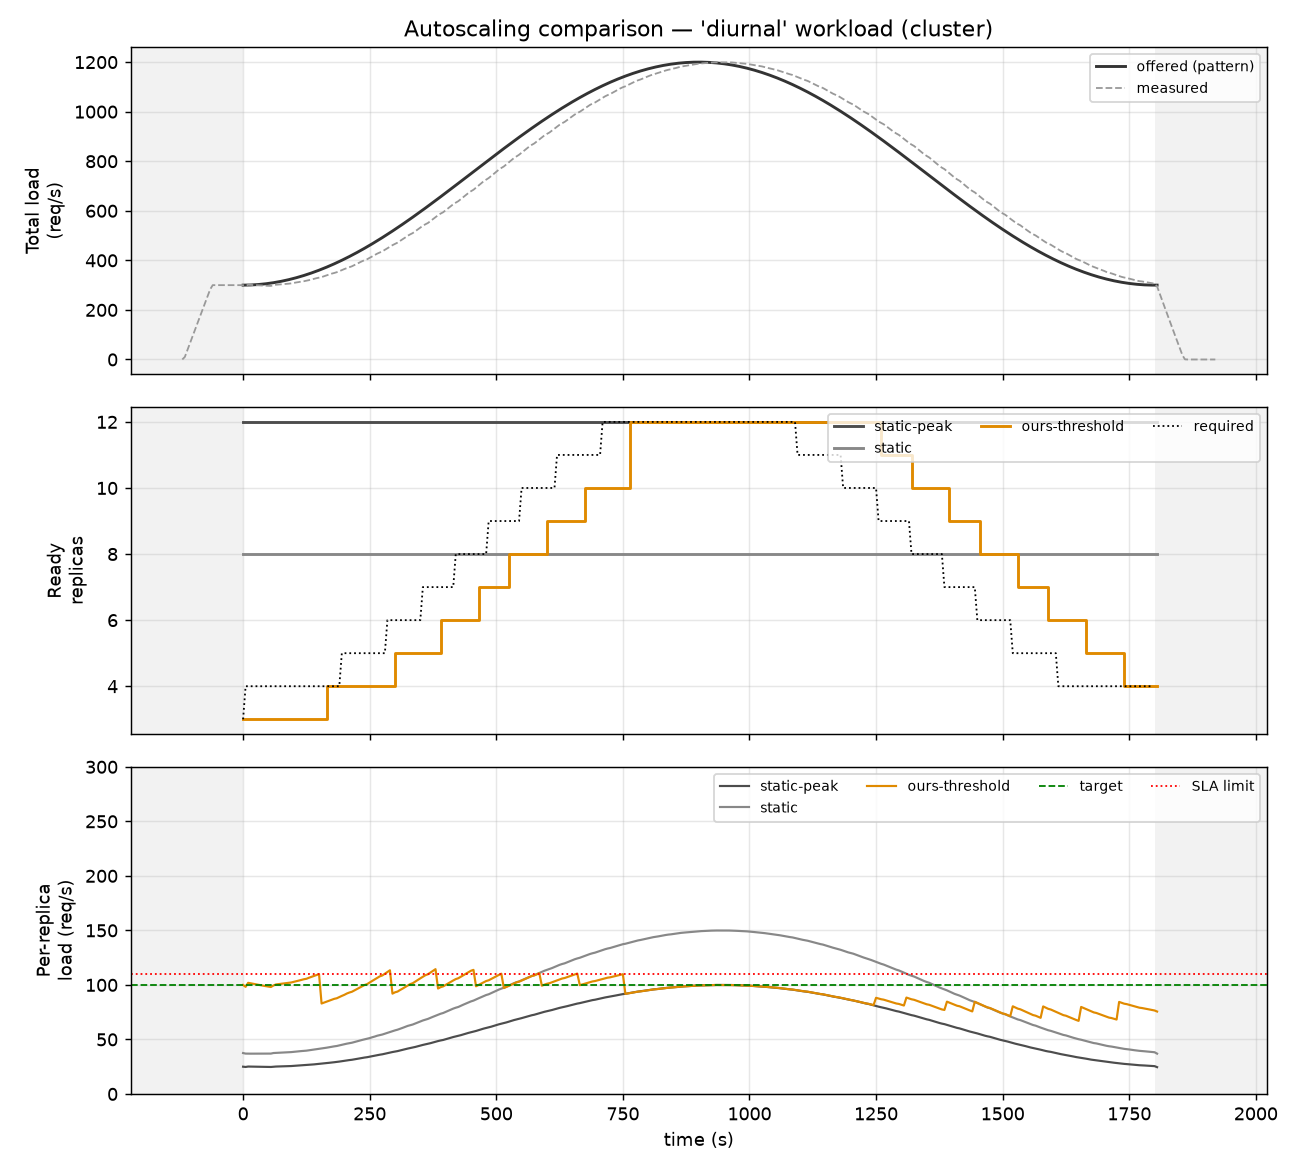
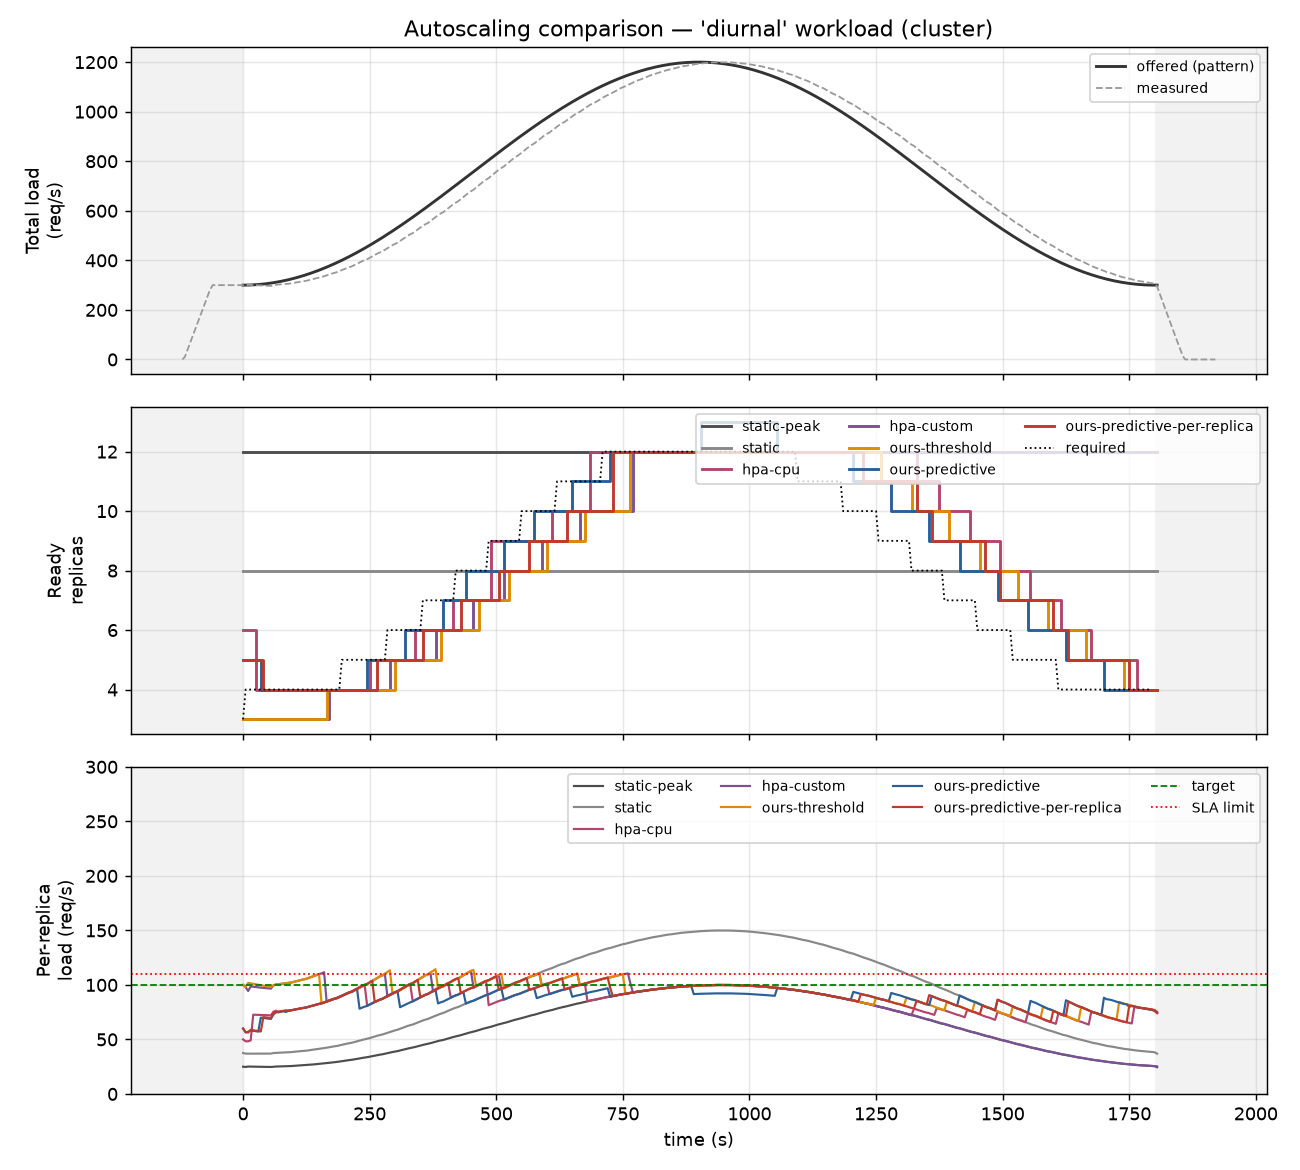
The per-replica pathology shows on spike, not diurnal
21 of 28 arms measured, all valid. diurnal and spike are both seven-for-seven.

11.9 predicted the per-replica variant would break on diurnal because diurnal
turns. It does not: 2 reversals there, the same as the correct policy. It
breaks on spike instead -- 14 reversals against 3, and 9/9 scale up/down
against 5/7. The driver is a step large relative to the control interval, not
non-monotonicity. That is a better statement of the mechanism than the proposal
has, and it means a policy looking stable on a smooth workload is not evidence
that it is stable.

diurnal also carries the ablation's strongest form: against hpa-custom, on an
identical signal and setpoint, ours-predictive is better on all three axes at
once -- 0.0% vs 3.0%, 15,180 vs 17,115 replica-seconds, 27.5s vs 97.5s.

diff --git a/docs/lab-notebook.md b/docs/lab-notebook.md
@@ -957,3 +957,58 @@ had to hold before `ours-predictive-per-replica` could be falsified at all. Also
 `ours-threshold` costs 14,545 replica-seconds against `static`'s 14,480 — **statistically the
 same spend for 3.6% violations instead of 40.3%**, which is a cleaner statement of the value
 of scaling at all than anything `ramp` produced.
+
+### 11.11 The per-replica pathology is real, and `diurnal` does not show it — 2026-08-12
+
+`diurnal` and `spike` are both seven-for-seven. Twenty-one of twenty-eight arms are measured,
+all valid, no failed runs. `bursty` is the last pattern outstanding.
+
+**§11.9's prediction about where the per-replica variant would break was wrong, and the
+correction matters more than the prediction did.** It reasoned that `ramp` hid the pathology
+because a monotonic workload gives positive feedback nowhere to run, and that `diurnal` would
+expose it because `diurnal` turns. Reversal counts for `ours-predictive-per-replica`:
+
+| Pattern | per-replica | `ours-predictive` | best other arm |
+|---|---:|---:|---:|
+| `ramp` | 5 | 0 | 0 |
+| `diurnal` | **2** | 2 | 0 |
+| `spike` | **14** | 3 | 0 |
+
+On `diurnal` it does not discriminate at all — 2 reversals, the same as the correct predictive
+policy and the same as `hpa-cpu`. On `spike` it is unmistakable: **14 reversals against 3, and
+9/9 scale up/down against 5/7.**
+
+So the driver is not whether the workload *turns*. It is whether it presents a **step large
+relative to the control interval**. `diurnal` rises and falls smoothly enough that the loop
+settles between 15-second reconciles, so the feedback term never compounds; `spike`'s 4x step
+moves the observed per-replica metric so far in one interval that the forecaster extrapolates
+its own correction and overshoots, then corrects back. This is a better statement of §3's
+mechanism than the one in the proposal: **the instability is excited by input steps, not by
+non-monotonicity.** State it that way in the evaluation chapter, and note that a policy
+looking stable on a smooth workload is not evidence that it is stable.
+
+**The ablation's strongest form is on `diurnal`.** `ours-predictive` against `hpa-custom` —
+identical signal, identical setpoint, policy the only difference:
+
+| | SLA | Replica-s | Reaction |
+|---|---:|---:|---:|
+| `hpa-custom` | 3.0% | 17,115 | 97.5 s |
+| `ours-predictive` | **0.0%** | **15,180** | **27.5 s** |
+
+Better on all three axes simultaneously, which neither `ramp` (where it cost 12% more
+capacity) nor `spike` (equal reaction) produced. `ours-predictive` also beats `hpa-cpu` here
+on both cost and reaction (15,180 vs 15,570 replica-seconds, 27.5 s vs 55.0 s) at equal 0.0%
+SLA — the first pattern where the predictive policy dominates stock HPA outright rather than
+trading cost for responsiveness.
+
+**`spike` also produces the first arm that cannot report a reaction time.** `static` and
+`ours-threshold` both show `—` for median reaction, and the analyzer flags `ours-threshold` as
+never reaching 13 ready replicas after the step at t=600s. It never caught the spike inside
+the window at all, so there is no reaction to measure. That is not a missing number; it is the
+result, and the table should say so rather than leaving a dash to be misread as "instant".
+
+**`hpa-custom` is consistently the most expensive autoscaled arm** — 17,115 replica-seconds on
+`diurnal` and 17,105 on `spike`, against 14,085–15,180 for `ours-predictive` — and it never
+scales down on either pattern (8/0 and 4/0). Worth checking whether the adapter's rate window
+is simply too long to see the decrease, since a controller that only ratchets upward is a
+finding about the configuration and not about custom metrics as an approach.

diff --git a/experiments/results/summary.md b/experiments/results/summary.md
@@ -9,7 +9,11 @@ Generated by `experiments/analyze.py` from the raw captures in
 |---|---|---:|---:|---:|---:|
 | `diurnal` | `static-peak` | 0.0% | 21,720 | 0 | 2.4 ms |
 | `diurnal` | `static` | 40.3% | 14,480 | 2,490 | 2.4 ms |
+| `diurnal` | `hpa-cpu` | 0.0% | 15,570 | 370 | 2.4 ms |
+| `diurnal` | `hpa-custom` | 3.0% | 17,115 | 980 | 2.4 ms |
 | `diurnal` | `ours-threshold` | 3.6% | 14,545 | 1,025 | 2.4 ms |
+| `diurnal` | `ours-predictive` | 0.0% | 15,180 | 245 | 2.4 ms |
+| `diurnal` | `ours-predictive-per-replica` | 0.0% | 14,915 | 600 | 2.4 ms |
 | `ramp` | `static-peak` | 0.0% | 21,720 | 0 | 2.4 ms |
 | `ramp` | `static` | 35.6% | 14,480 | 2,420 | 2.4 ms |
 | `ramp` | `hpa-cpu` | 0.0% | 12,990 | 605 | 2.4 ms |
@@ -17,6 +21,13 @@ Generated by `experiments/analyze.py` from the raw captures in
 | `ramp` | `ours-threshold` | 4.1% | 11,810 | 1,460 | 2.5 ms |
 | `ramp` | `ours-predictive` | 0.0% | 13,515 | 270 | 2.4 ms |
 | `ramp` | `ours-predictive-per-replica` | 0.0% | 12,900 | 885 | 2.5 ms |
+| `spike` | `static-peak` | 0.0% | 23,530 | 0 | 2.4 ms |
+| `spike` | `static` | 32.9% | 14,480 | 3,000 | 2.4 ms |
+| `spike` | `hpa-cpu` | 1.7% | 13,915 | 480 | 2.4 ms |
+| `spike` | `hpa-custom` | 2.8% | 17,105 | 425 | 2.4 ms |
+| `spike` | `ours-threshold` | 2.5% | 11,925 | 1,095 | 2.4 ms |
+| `spike` | `ours-predictive` | 0.3% | 14,085 | 405 | 2.4 ms |
+| `spike` | `ours-predictive-per-replica` | 0.8% | 13,900 | 390 | 2.4 ms |
 
 ## Simulator vs cluster — ordering agreement
 
@@ -26,10 +37,12 @@ so its magnitudes are not expected to match the cluster's.
 
 | Workload | Metric | Simulator order | Cluster order | Agrees |
 |---|---|---|---|---|
-| `diurnal` | SLA violations | ours-threshold < static | ours-threshold < static | yes |
-| `diurnal` | Replica-seconds | static < ours-threshold | static < ours-threshold | yes |
+| `diurnal` | SLA violations | ours-predictive < ours-threshold < static | ours-predictive < ours-threshold < static | yes |
+| `diurnal` | Replica-seconds | static < ours-threshold < ours-predictive | static < ours-threshold < ours-predictive | yes |
 | `ramp` | SLA violations | ours-predictive < ours-threshold < static | ours-predictive < ours-threshold < static | yes |
 | `ramp` | Replica-seconds | ours-threshold < ours-predictive < static | ours-threshold < ours-predictive < static | yes |
+| `spike` | SLA violations | ours-threshold < ours-predictive < static | ours-predictive < ours-threshold < static | **no** |
+| `spike` | Replica-seconds | ours-threshold < static < ours-predictive | ours-threshold < ours-predictive < static | **no** |
 
 ## Excluded runs
 

diff --git a/experiments/results/table_spike.md b/experiments/results/table_spike.md
@@ -1,0 +1,19 @@
+# `spike` — cluster results
+
+Measurement window only; warmup and settle excluded. Required replicas are
+`ceil(pattern(t) / 100)` from the workload definition, not from delivered load.
+
+| Arm | SLA violations | Replica-seconds | Under-prov. | Over-prov. | CPU core-s | Reaction (median) | Scale ↑/↓ | Reversals | p95 latency |
+|---|---:|---:|---:|---:|---:|---:|---:|---:|---:|
+| `static-peak` | 0.0% | 23,530 | 0 | 12,100 | 2,464.3 | 0.0 s | 0/0 | 0 | 2.4 ms |
+| `static` | 32.9% | 14,480 | 3,000 | 6,050 | 2,449.5 | — s | 0/0 | 0 | 2.4 ms |
+| `hpa-cpu` | 1.7% | 13,915 | 480 | 2,965 | 2,409.9 | 60.0 s | 3/4 | 1 | 2.4 ms |
+| `hpa-custom` | 2.8% | 17,105 | 425 | 6,100 | 2,399.7 | 65.0 s | 4/0 | 0 | 2.4 ms |
+| `ours-threshold` | 2.5% | 11,925 | 1,095 | 1,590 | 2,404.5 | — s | 3/4 | 1 | 2.4 ms |
+| `ours-predictive` | 0.3% | 14,085 | 405 | 3,060 | 2,438.6 | 65.0 s | 5/7 | 3 | 2.4 ms |
+| `ours-predictive-per-replica` | 0.8% | 13,900 | 390 | 2,860 | 2,407.6 | 60.0 s | 9/9 | 14 | 2.4 ms |
+
+Notes:
+
+- `static`: never reached 13 ready replicas after the step at t=600s
+- `ours-threshold`: never reached 13 ready replicas after the step at t=600s

diff --git a/experiments/results/table_diurnal.md b/experiments/results/table_diurnal.md
@@ -7,7 +7,11 @@ Measurement window only; warmup and settle excluded. Required replicas are
 |---|---:|---:|---:|---:|---:|---:|---:|---:|---:|
 | `static-peak` | 0.0% | 21,720 | 0 | 7,290 | 2,907.8 | 0.0 s | 0/0 | 0 | 2.4 ms |
 | `static` | 40.3% | 14,480 | 2,490 | 2,540 | 2,895.9 | 0.0 s | 0/0 | 0 | 2.4 ms |
+| `hpa-cpu` | 0.0% | 15,570 | 370 | 1,510 | 2,894.1 | 55.0 s | 6/9 | 2 | 2.4 ms |
+| `hpa-custom` | 3.0% | 17,115 | 980 | 3,665 | 2,874.1 | 97.5 s | 8/0 | 0 | 2.4 ms |
 | `ours-threshold` | 3.6% | 14,545 | 1,025 | 1,140 | 2,854.7 | 107.5 s | 8/8 | 1 | 2.4 ms |
+| `ours-predictive` | 0.0% | 15,180 | 245 | 995 | 2,880.6 | 27.5 s | 9/10 | 2 | 2.4 ms |
+| `ours-predictive-per-replica` | 0.0% | 14,915 | 600 | 1,085 | 2,874.9 | 72.5 s | 7/9 | 2 | 2.4 ms |
 
 Notes:
 
